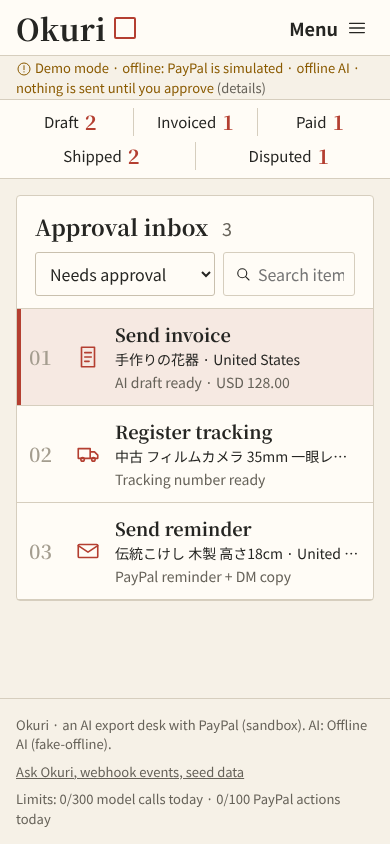
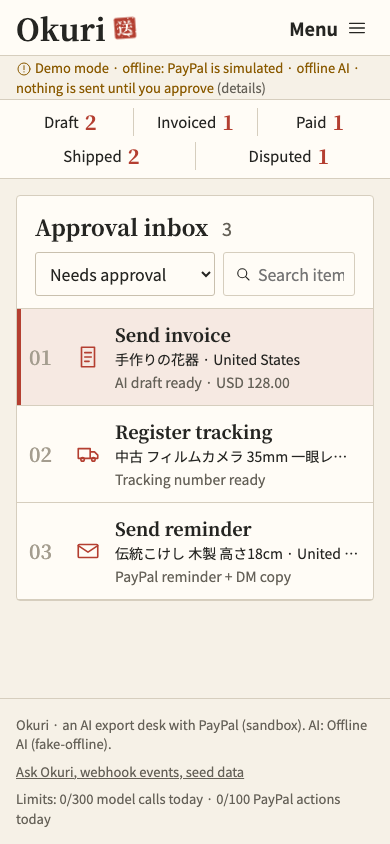
Docs: retake docs/media screenshots with the new seal mark
Taken with scripts/screenshots.mjs on the offline demo (1440x900 and 390x844).
The compare-* images stay as they were.

diff --git a/README.md b/README.md
@@ -114,7 +114,7 @@ repository was created during that period. Dated log of the work (newest last):
 | 2026-11-01 | Hosted demo on Render checked end to end against the real sandbox: invoices created, sent and paid in USD from a Japan-based sandbox merchant; a buyer dispute opened by its case ID and the seller's evidence submitted through the Disputes API after approval; demo video recorded from the hosted demo; README for judges. |
 | 2026-11-01 | Pass 5 (after the hosted-demo checks): dispute evidence notes and replies sendable as is (seller to-dos listed separately, no claims of attachments that are not there); a refused evidence type offers a new OTHER proposal; the case is re-read after a dispute action; invoice notes with shipping state the total; a clear message when PayPal refuses Add Tracking for lack of permission. Pass 5b: tracking for invoice payments goes through Orders v2 `/track` on the order PayPal names for the payment (checked live on the hosted demo). |
 | 2026-11-01 | Pass 6 (after a restart of the free hosting instance): journeys rebuilt from PayPal keep their titles (English from the invoice item, Japanese from the invoice's private memo) and show tracking registered with PayPal (read from the Orders v2 order behind the invoice payment), with a few cached PayPal reads at most per page load. |
-| 2026-11-04 | Seal mark (owner's choice): the outline square next to the wordmark became a vermilion square stamp with a white 送 and a light stamped texture, so it no longer reads as a missing-glyph box or a checkbox; the same seal is the favicon. |
+| 2026-11-04 | Seal mark (owner's choice): the outline square next to the wordmark became a vermilion square stamp with a white 送 and a light stamped texture, so it no longer reads as a missing-glyph box or a checkbox; the same seal is the favicon. Screenshots in `docs/media/` retaken with `scripts/screenshots.mjs` (the `compare-*` images are kept as they were). |
 
 ## Setup
 
